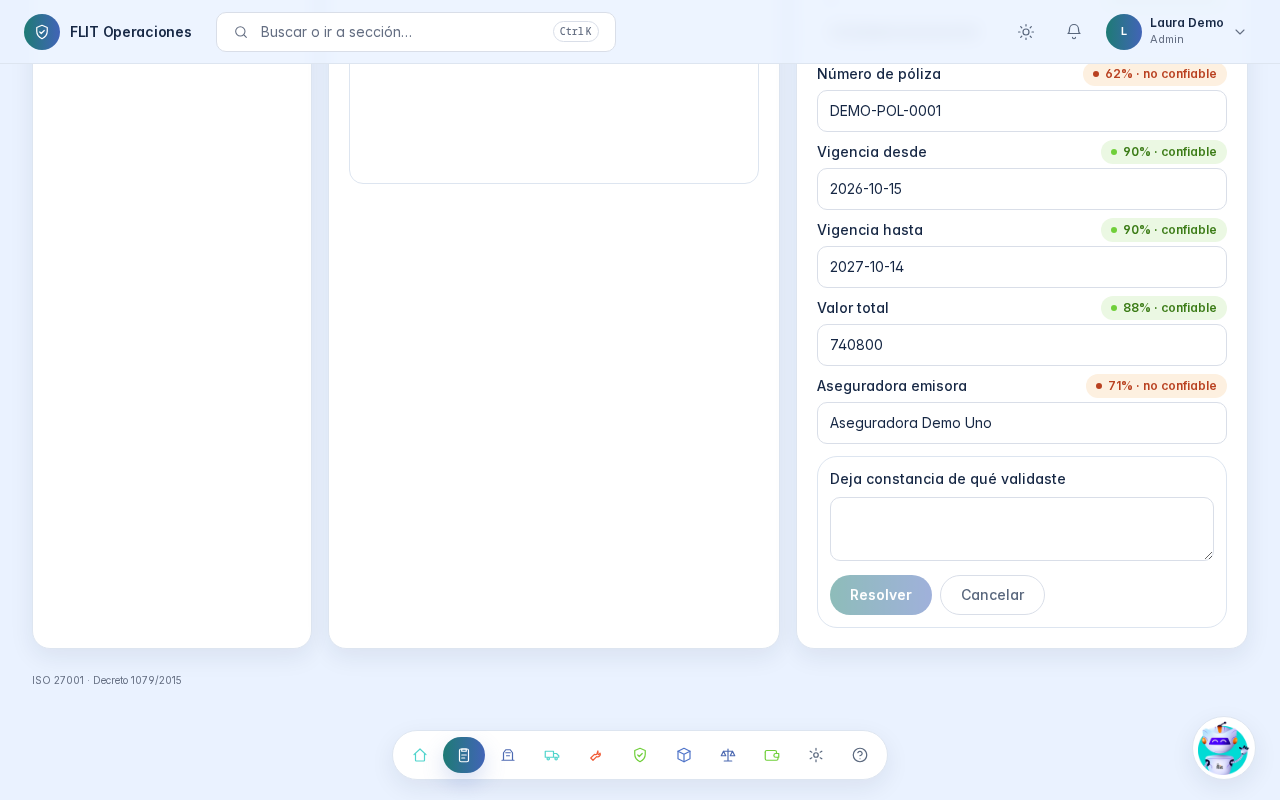
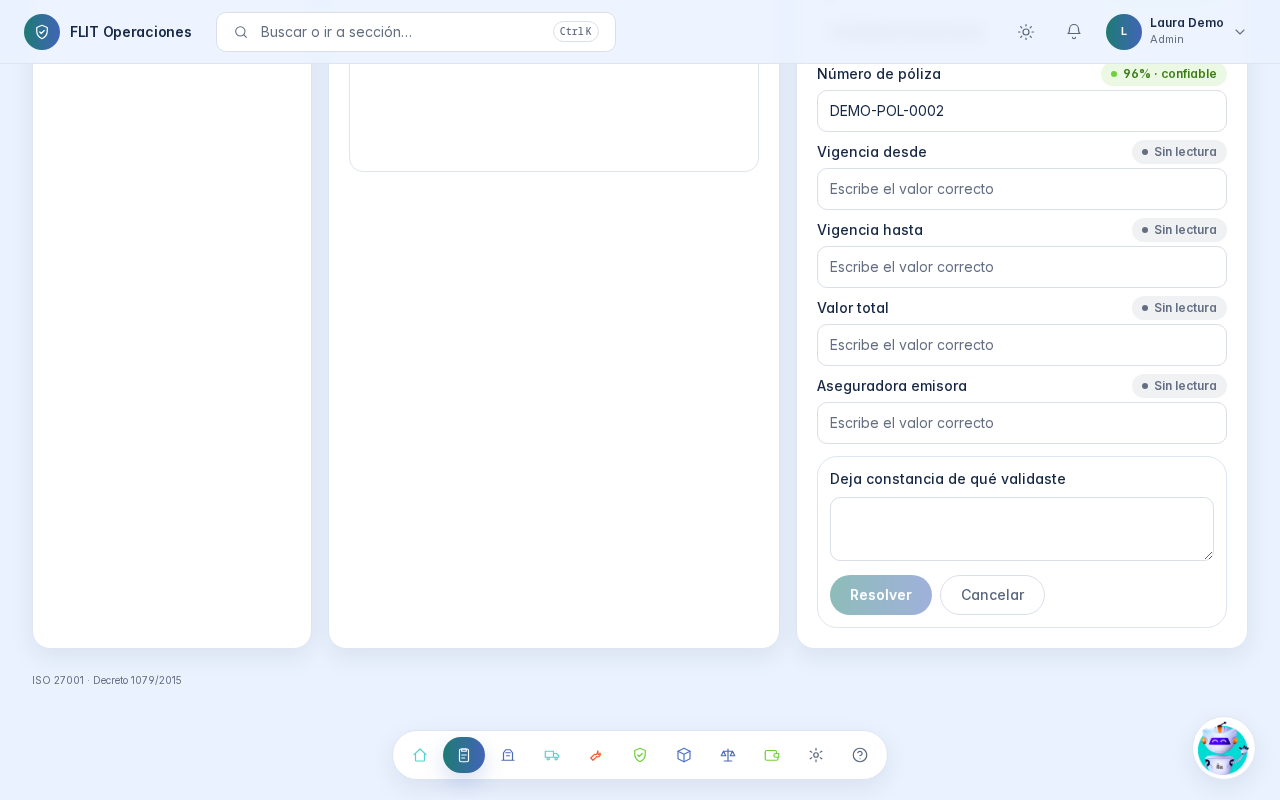
docs(ayuda): la ficha de Revisiones OCR explica Reintentar lectura y el trámite asociado del auditor, con capturas de la cola sin trámite elegido y del reintento (BUG #14569)

diff --git a/apps/api/src/modules/flito-dr-flit/ayuda/fichas-ayuda.generated.ts b/apps/api/src/modules/flito-dr-flit/ayuda/fichas-ayuda.generated.ts
@@ -319,7 +319,7 @@ export const FICHAS_AYUDA: readonly FichaAyudaApi[] = Object.freeze([
     "permiso": "flito_revisiones",
     "etiqueta": "Revisiones OCR",
     "resumen": "Cola de confirmación de campos leídos.",
-    "version": "1.3",
+    "version": "1.4",
     "fecha": "2026-11-17",
     "palabrasClave": [
       "revisiones",
@@ -330,7 +330,8 @@ export const FICHAS_AYUDA: readonly FichaAyudaApi[] = Object.freeze([
     "consultas": [
       "cómo confirmo los campos que leyó el OCR",
       "por qué un documento quedó en revisión",
-      "cómo busco el trámite de un documento en revisión"
+      "cómo busco el trámite de un documento en revisión",
+      "cómo vuelvo a leer un documento en revisión"
     ],
     "secciones": [
       {
@@ -341,7 +342,7 @@ export const FICHAS_AYUDA: readonly FichaAyudaApi[] = Object.freeze([
       {
         "ancla": "para-quien",
         "titulo": "Para quién",
-        "texto": "Administrador (confirma o descarta). Auditor (ve la cola y los soportes, pero no los resuelve: Solo lectura · Auditoría ve la cola y los soportes, pero no los resuelve.)."
+        "texto": "Administrador (confirma o descarta). Auditor (ve la cola, los soportes y el trámite asociado, pero no los resuelve ni vuelve a leer el documento: Solo lectura · Auditoría ve la cola y los soportes, pero no los resuelve.)."
       },
       {
         "ancla": "como-se-entra",
@@ -351,17 +352,17 @@ export const FICHAS_AYUDA: readonly FichaAyudaApi[] = Object.freeze([
       {
         "ancla": "pasos",
         "titulo": "Pasos",
-        "texto": "Elija el grupo: SOAT, Impuestos (incluye las facturas de venta) o Derechos de tránsito. Marque Incluir resueltas, arriba a la derecha, si necesita ver también las ya cerradas. En Cola, a la izquierda, pulse el archivo; la primera de la lista viene elegida. En el centro aparece el documento; si el visor no lo muestra, use Abrir el documento. A la derecha, el tipo de documento, el motivo por el que llegó (por ejemplo, Confianza del OCR bajo el umbral) y los campos leídos, cada uno con su confianza: confiable, no confiable o Sin lectura. Revisiones OCR con la cola de dos pólizas a la izquierda, el documento en el centro y los campos leídos con su porcentaje de confianza a la derecha En Trámite contra el que se concilia, el trámite aparece elegido cuando es el único que coincide con la placa o el VIN del documento; lo indica el aviso Elegido automáticamente, y puede pulsar Cambiar para elegir otro. Si no viene elegido, pulse el campo y escriba la placa, el VIN o el número FLIT: la lista muestra el número FLIT y la placa de cada trámite, y marca Coincide placa, Coincide VIN o Coincide placa y VIN. Si aparece Hay más trámites que coinciden, escriba más caracteres para afinar. Al elegirlo, aparece una tabla que compara Placa y VIN del trámite con lo Leído del PDF, con ✓ si cruzan y ✗ si no. Corrija en cada campo el valor que no corresponda; si corrige la placa y ya no es la del trámite elegido, un aviso se lo dice y Buscar con la placa nueva le muestra los trámites que sí coinciden. Trámite elegido automáticamente en el buscador y tabla que compara placa y VIN del trámite con lo leído del PDF, ambos con marca de coincidencia Pulse Confirmar y resolver (solo se habilita con un trámite elegido). Escriba en Deja constancia de qué validaste y pulse Resolver, o Cancelar para volver. Si el documento no corresponde a ningún trámite, pulse Descartar documento, escriba el Motivo del descarte (mín. 5 caracteres) y pulse Descartar. Recuadro Deja constancia de qué validaste con el botón Resolver y Cancelar debajo de los campos Al resolver o descartar, el documento sale de la cola. Una revisión ya cerrada (con Incluir resueltas) muestra Resuelta y sus campos no se editan. Diagrama: el documento en la cola, elegir el trámite y revisar los campos; si corresponde, Confirmar y resolver con constancia; si no, Descartar documento con motivo"
+        "texto": "Elija el grupo: SOAT, Impuestos (incluye las facturas de venta) o Derechos de tránsito. Marque Incluir resueltas, arriba a la derecha, si necesita ver también las ya cerradas. En Cola, a la izquierda, pulse el archivo; la primera de la lista viene elegida. En el centro aparece el documento; si el visor no lo muestra, use Abrir el documento. A la derecha, el tipo de documento, el motivo por el que llegó (por ejemplo, Confianza del OCR bajo el umbral) y los campos leídos, cada uno con su confianza: confiable, no confiable o Sin lectura. Revisiones OCR con la cola de dos pólizas a la izquierda, el documento en el centro y los campos leídos con su porcentaje de confianza a la derecha, con el trámite aún por elegir En Trámite contra el que se concilia, el trámite aparece elegido cuando es el único que coincide con la placa o el VIN del documento; lo indica el aviso Elegido automáticamente, y puede pulsar Cambiar para elegir otro. Si la revisión ya tenía un trámite asociado, aparece elegido desde el principio; el Auditor lo ve igual, sin poder cambiarlo, o Sin trámite asociado si no lo hay. Si no viene elegido, pulse el campo y escriba la placa, el VIN o el número FLIT: la lista muestra el número FLIT y la placa de cada trámite, y marca Coincide placa, Coincide VIN o Coincide placa y VIN. Si aparece Hay más trámites que coinciden, escriba más caracteres para afinar. Al elegirlo, aparece una tabla que compara Placa y VIN del trámite con lo Leído del PDF, con ✓ si cruzan y ✗ si no. Corrija en cada campo el valor que no corresponda; si corrige la placa y ya no es la del trámite elegido, un aviso se lo dice y Buscar con la placa nueva le muestra los trámites que sí coinciden. Trámite elegido automáticamente en el buscador y tabla que compara placa y VIN del trámite con lo leído del PDF, ambos con marca de coincidencia Si la lectura salió mal (campos vacíos o con confianza baja), pulse Reintentar lectura, junto a Confirmar y resolver, para que el sistema vuelva a leer el documento guardado. No resuelve la revisión: usted sigue teniendo que revisar y confirmar. Mientras lee, el botón dice Leyendo de nuevo… y los campos no se editan. Si ya corrigió algún campo, antes le avisa Se reemplazarán los campos que corregiste con la nueva lectura.: pulse Reintentar de todos modos o Cancelar para conservar sus correcciones. Al terminar, aparece Lectura actualizada con el número de campos leídos, los campos traen los valores y la confianza nuevos, y el trámite se vuelve a buscar con la placa o el VIN leídos (sin cambiar el que usted ya eligió). Si la nueva lectura no obtiene ningún campo, la revisión queda como estaba. Hay un límite de intentos seguidos: si lo alcanza, espere unos minutos. Botón Reintentar lectura junto a Confirmar y resolver, con el aviso Lectura actualizada debajo Pulse Confirmar y resolver (solo se habilita con un trámite elegido). Escriba en Deja constancia de qué validaste y pulse Resolver, o Cancelar para volver. Si el documento no corresponde a ningún trámite, pulse Descartar documento, escriba el Motivo del descarte (mín. 5 caracteres) y pulse Descartar. Recuadro Deja constancia de qué validaste con el botón Resolver y Cancelar debajo de los campos Al resolver o descartar, el documento sale de la cola. Una revisión ya cerrada (con Incluir resueltas) muestra Resuelta y sus campos no se editan. Diagrama: el documento en la cola, elegir el trámite y revisar los campos; si corresponde, Confirmar y resolver con constancia; si no, Descartar documento con motivo"
       },
       {
         "ancla": "estados",
         "titulo": "Estados",
-        "texto": "Cargando: Cargando documento… en el visor mientras llega el archivo. Error: el recuadro de constancia o de descarte muestra el mensaje si falla la confirmación o el descarte. Si la búsqueda de trámites falla, el campo muestra No pudimos buscar los trámites. con Reintentar. Vacío: No hay nada en revisión. Cuando una extracción no supere el umbral o su llave no cruce, el documento aparecerá aquí. El mismo mensaje se ve si la cola no se pudo consultar. Lleno: cola a la izquierda, documento al centro y campos a la derecha (en pantallas pequeñas, uno debajo del otro)."
+        "texto": "Cargando: Cargando documento… en el visor mientras llega el archivo. Error: el recuadro de constancia o de descarte muestra el mensaje si falla la confirmación o el descarte. Si la búsqueda de trámites falla, el campo muestra No pudimos buscar los trámites. con Reintentar. Si Reintentar lectura falla, un aviso lo explica: El lector de documentos no está disponible en este momento. La revisión no cambió; intenta de nuevo en unos minutos., No se pudo abrir el documento guardado de esta revisión. Intenta de nuevo en unos minutos., Demasiados reintentos de lectura seguidos. Espera unos minutos e intenta de nuevo., La revisión ya está resuelta o, si no hay conexión, No pudimos reintentar la lectura. Intenta de nuevo. También puede ver El documento se volvió a leer, pero no se obtuvo ningún campo. La revisión no cambió. Vacío: No hay nada en revisión. Cuando una extracción no supere el umbral o su llave no cruce, el documento aparecerá aquí. El mismo mensaje se ve si la cola no se pudo consultar. Lleno: cola a la izquierda, documento al centro y campos a la derecha (en pantallas pequeñas, uno debajo del otro)."
       },
       {
         "ancla": "que-no-hace",
         "titulo": "Qué no hace",
-        "texto": "No sustituye la carga masiva: los archivos entran desde SOAT, Impuestos o Derechos. No envía el SOAT al Proveedor ni el impuesto al gestor. No Factura ni hace emisión electrónica. El Auditor no confirma ni descarta."
+        "texto": "No sustituye la carga masiva: los archivos entran desde SOAT, Impuestos o Derechos. No envía el SOAT al Proveedor ni el impuesto al gestor. No Factura ni hace emisión electrónica. El Auditor no confirma, no descarta ni vuelve a leer el documento. Reintentar lectura no resuelve la revisión por sí solo."
       }
     ]
   },

diff --git a/apps/web/e2e/tests/ayuda-capturas.capturas.spec.ts b/apps/web/e2e/tests/ayuda-capturas.capturas.spec.ts
@@ -1236,6 +1236,19 @@ test.describe('Ayuda FLITO — capturas con datos demo @capturas', () => {
 
   test('flito_revisiones @capturas', async ({ page }) => {
     const dir = prepararCarpeta('flito_revisiones');
+    // BUG #14569: la primera póliza tiene DOS trámites con su placa (no se elige solo) y la segunda uno
+    // solo (se elige automáticamente): así 01 y 02 muestran pasos distintos.
+    const [rev1, rev2] = REVISIONES_DEMO;
+    const candidatos = [
+      ...REVISION_CANDIDATOS_SOAT,
+      { ...REVISION_CANDIDATOS_SOAT[0], id: 'soat-demo-3', idFlit: 'FLIT-DEMO-3', vin: rev2.extraccion.vin.valor.replace(/.$/, '0'),
+        etiqueta: `FLIT-DEMO-3 · ${rev1.placaSugerida}`, detalle: 'Chevrolet Onix' },
+      { ...REVISION_CANDIDATOS_SOAT[1], id: 'soat-demo-4', idFlit: 'FLIT-DEMO-4', placa: rev2.placaSugerida, vin: rev2.extraccion.vin.valor,
+        etiqueta: `FLIT-DEMO-4 · ${rev2.placaSugerida}`, detalle: 'Mazda 2' },
+    ];
+    // Punto 9: «Reintentar lectura» devuelve la segunda póliza con la confianza nueva.
+    const releida = { ...rev2, extraccion: Object.fromEntries(Object.entries(rev2.extraccion as Record<string, { valor: string }>)
+      .map(([k, c]) => [k, { valor: c.valor, confianza: 0.96, confiable: true }])) };
     const api = await interceptarApiDemo(page, [
       [/\/api\/flito\/revisiones$/, (route) => ({
         body: new URL(route.request().url()).searchParams.get('modulo') === 'soat' ? REVISIONES_DEMO : [],
@@ -1244,11 +1257,14 @@ test.describe('Ayuda FLITO — capturas con datos demo @capturas', () => {
       // BUG #14569: el buscador recibe placa/VIN en el body y devuelve las coincidencias exactas.
       [/\/api\/flito\/revisiones\/[^/]+\/candidatos\/buscar$/, (route) => {
         const b = (route.request().postDataJSON() ?? {}) as { placa?: string; vin?: string };
-        const items = REVISION_CANDIDATOS_SOAT
+        const items = candidatos
           .map((c) => ({ ...c, coincide: { placa: !!b.placa && c.placa === b.placa, vin: !!b.vin && c.vin === b.vin } }))
           .filter((c) => c.coincide.placa || c.coincide.vin);
         return { body: { items, total: items.length, truncado: false, registroActual: null } };
       }],
+      [/\/api\/flito\/revisiones\/[^/]+\/reintentar-lectura$/, () => ({
+        body: { revision: releida, sinLectura: false, camposLeidos: Object.keys(releida.extraccion).length },
+      })],
       [/\/api\/flito\/revisiones\/soporte\/[^/]+\/archivo$/, () => ({ body: PDF_DEMO, contentType: 'application/pdf' })],
     ]);
     await entrarComoAdminDemo(page);
@@ -1256,24 +1272,36 @@ test.describe('Ayuda FLITO — capturas con datos demo @capturas', () => {
     await page.goto('/flito/revisiones');
     await expect(page.getByText(`poliza-${DATOS_DEMO.placas[0]}.pdf`).first()).toBeVisible();
     await expect(page.getByText('Número de póliza')).toBeVisible();
+    // Dos trámites con la placa leída: el campo queda por elegir.
+    await expect(page.getByLabel('Trámite contra el que se concilia *')).toHaveText('Selecciona el trámite…');
+    await page.waitForTimeout(500);
+    await expect(page.getByLabel('Trámite contra el que se concilia *')).toHaveText('Selecciona el trámite…');
 
     // Pasos 1 y 2 — Grupo, cola y documento.
+    await sinFoco(page);
     await capturar(page, dir, '01-cola-y-documento');
 
-    // Paso 3 — Elegir el trámite y revisar los campos.
-    // BUG #14569: con un único trámite que coincide con la placa leída, viene elegido solo.
+    // Paso 3 — Elegir el trámite y revisar los campos (segunda póliza: un único trámite, elegido solo).
+    await page.getByRole('button', { name: new RegExp(`poliza-${DATOS_DEMO.placas[1]}\\.pdf`) }).click();
     await expect(page.getByText(/Elegido automáticamente/)).toBeVisible();
     await expect(page.getByText('Leído del PDF')).toBeVisible();
     await sinFoco(page);
     await capturar(page, dir, '02-revisar-campos');
 
-    // Paso 4 — Confirmar y resolver deja constancia.
+    // Paso 4 — Reintentar lectura: vuelve a leer el documento sin resolver la revisión.
+    await page.getByRole('button', { name: 'Reintentar lectura' }).click();
+    await expect(page.getByText(/Lectura actualizada/)).toBeVisible();
+    await page.getByText(/Lectura actualizada/).evaluate((el) => el.scrollIntoView({ block: 'center' }));
+    await sinFoco(page);
+    await capturar(page, dir, '04-reintentar-lectura');
+
+    // Paso 5 — Confirmar y resolver deja constancia.
     await page.getByRole('button', { name: 'Confirmar y resolver' }).click();
     await page.getByText('Deja constancia de qué validaste').evaluate((el) => el.scrollIntoView({ block: 'center' }));
     await sinFoco(page);
     await capturar(page, dir, '03-constancia');
 
-    comprobarCierre(api, dir, ['01-cola-y-documento.png', '02-revisar-campos.png', '03-constancia.png']);
+    comprobarCierre(api, dir, ['01-cola-y-documento.png', '02-revisar-campos.png', '03-constancia.png', '04-reintentar-lectura.png']);
   });
 
   test('clients @capturas', async ({ page }) => {

diff --git a/apps/web/e2e/tests/flito-ayuda-artefactos.spec.ts b/apps/web/e2e/tests/flito-ayuda-artefactos.spec.ts
@@ -303,8 +303,9 @@ test.describe('FLITO — Ayuda · artefactos AC6/AC7', () => {
     // Bug #14532: Liquidación y Pagado en la ventana del ZIP (04-documentos-del-zip regenerada).
     flito_tramites: { version: '1.4', fecha: '2026-11-11', diagrama: 'camino-a-entregar.svg', capturas: [
       '01-sincronizacion.png', '02-filtros-y-tabla.png', '03-seleccion.png', '04-documentos-del-zip.png'] },
-    flito_revisiones: { version: '1.2', diagrama: 'resolver-o-descartar.svg', capturas: [
-      '01-cola-y-documento.png', '02-revisar-campos.png', '03-constancia.png'] },
+    // BUG #14569: buscador de trámite (1.3) y Reintentar lectura (1.4, 04-reintentar-lectura nueva).
+    flito_revisiones: { version: '1.4', fecha: '2026-11-17', diagrama: 'resolver-o-descartar.svg', capturas: [
+      '01-cola-y-documento.png', '02-revisar-campos.png', '04-reintentar-lectura.png', '03-constancia.png'] },
     flito_bitacora: { version: '1.2', diagrama: null, capturas: ['01-movimientos.png'] },
     flito_comparendos: { version: '1.2', diagrama: 'ciclo-monitoreo.svg', capturas: [
       '01-registros.png', '02-detalle.png', '03-sincronizacion.png', '04-configuracion.png'] },

diff --git a/apps/web/e2e/helpers/datos-demo.ts b/apps/web/e2e/helpers/datos-demo.ts
@@ -756,12 +756,14 @@ export const REVISIONES_DEMO = [
       aseguradora: campo(ASEGURADORAS_DEMO[0], 0.71),
     },
     resuelto: false, creadoEn: '2026-10-21T13:20:00Z', soporte: { id: 'sop-demo-1', nombreArchivo: `poliza-${P[0]}.pdf` },
+    registroActual: null,
   },
   {
     id: 'rev-demo-2', modulo: 'soat', motivo: 'llave_no_cruza',
     detalle: 'La placa leída no corresponde a ningún SOAT de la cola.', registroId: null, placaSugerida: P[1],
     extraccion: { placa: campo(P[1], 0.95), vin: campo(V[1], 0.9), numeroPoliza: campo('DEMO-POL-0002', 0.91) },
     resuelto: false, creadoEn: '2026-10-21T11:05:00Z', soporte: { id: 'sop-demo-2', nombreArchivo: `poliza-${P[1]}.pdf` },
+    registroActual: null,
   },
 ];
 export const REVISION_CAMPOS_SOAT = ['placa', 'vin', 'numeroPoliza', 'vigenciaDesde', 'vigenciaHasta', 'valorTotal', 'aseguradora'];

diff --git a/apps/web/src/content/ayuda/flito_revisiones.md b/apps/web/src/content/ayuda/flito_revisiones.md
@@ -9,7 +9,8 @@ consultas:
   - cómo confirmo los campos que leyó el OCR
   - por qué un documento quedó en revisión
   - cómo busco el trámite de un documento en revisión
-version: 1.3
+  - cómo vuelvo a leer un documento en revisión
+version: 1.4
 fecha: 2026-11-17
 ---
 ## Qué es
@@ -18,7 +19,7 @@ Cola de confirmación humana: todo documento leído por OCR que no superó la co
 
 ## Para quién
 
-Administrador (confirma o descarta). Auditor (ve la cola y los soportes, pero no los resuelve: **Solo lectura · Auditoría ve la cola y los soportes, pero no los resuelve.**).
+Administrador (confirma o descarta). Auditor (ve la cola, los soportes y el trámite asociado, pero no los resuelve ni vuelve a leer el documento: **Solo lectura · Auditoría ve la cola y los soportes, pero no los resuelve.**).
 
 ## Cómo se entra
 
@@ -27,17 +28,18 @@ En la barra de navegación al pie de la pantalla, pulse **Gestión** y, en el pa
 ## Pasos
 
 1. Elija el grupo: **SOAT**, **Impuestos** (incluye las facturas de venta) o **Derechos de tránsito**. Marque **Incluir resueltas**, arriba a la derecha, si necesita ver también las ya cerradas.
-2. En **Cola**, a la izquierda, pulse el archivo; la primera de la lista viene elegida. En el centro aparece el documento; si el visor no lo muestra, use **Abrir el documento**. A la derecha, el tipo de documento, el motivo por el que llegó (por ejemplo, **Confianza del OCR bajo el umbral**) y los campos leídos, cada uno con su confianza: **confiable**, **no confiable** o **Sin lectura**. ![Revisiones OCR con la cola de dos pólizas a la izquierda, el documento en el centro y los campos leídos con su porcentaje de confianza a la derecha](./flito_revisiones/01-cola-y-documento.png)
-3. En **Trámite contra el que se concilia**, el trámite aparece elegido cuando es el único que coincide con la placa o el VIN del documento; lo indica el aviso **Elegido automáticamente**, y puede pulsar **Cambiar** para elegir otro. Si no viene elegido, pulse el campo y escriba la placa, el VIN o el número FLIT: la lista muestra el número FLIT y la placa de cada trámite, y marca **Coincide placa**, **Coincide VIN** o **Coincide placa y VIN**. Si aparece **Hay más trámites que coinciden**, escriba más caracteres para afinar. Al elegirlo, aparece una tabla que compara **Placa** y **VIN** del trámite con lo **Leído del PDF**, con ✓ si cruzan y ✗ si no. Corrija en cada campo el valor que no corresponda; si corrige la placa y ya no es la del trámite elegido, un aviso se lo dice y **Buscar con** la placa nueva le muestra los trámites que sí coinciden. ![Trámite elegido automáticamente en el buscador y tabla que compara placa y VIN del trámite con lo leído del PDF, ambos con marca de coincidencia](./flito_revisiones/02-revisar-campos.png)
-4. Pulse **Confirmar y resolver** (solo se habilita con un trámite elegido). Escriba en **Deja constancia de qué validaste** y pulse **Resolver**, o **Cancelar** para volver. Si el documento no corresponde a ningún trámite, pulse **Descartar documento**, escriba el **Motivo del descarte (mín. 5 caracteres)** y pulse **Descartar**. ![Recuadro Deja constancia de qué validaste con el botón Resolver y Cancelar debajo de los campos](./flito_revisiones/03-constancia.png)
-5. Al resolver o descartar, el documento sale de la cola. Una revisión ya cerrada (con **Incluir resueltas**) muestra **Resuelta** y sus campos no se editan.
+2. En **Cola**, a la izquierda, pulse el archivo; la primera de la lista viene elegida. En el centro aparece el documento; si el visor no lo muestra, use **Abrir el documento**. A la derecha, el tipo de documento, el motivo por el que llegó (por ejemplo, **Confianza del OCR bajo el umbral**) y los campos leídos, cada uno con su confianza: **confiable**, **no confiable** o **Sin lectura**. ![Revisiones OCR con la cola de dos pólizas a la izquierda, el documento en el centro y los campos leídos con su porcentaje de confianza a la derecha, con el trámite aún por elegir](./flito_revisiones/01-cola-y-documento.png)
+3. En **Trámite contra el que se concilia**, el trámite aparece elegido cuando es el único que coincide con la placa o el VIN del documento; lo indica el aviso **Elegido automáticamente**, y puede pulsar **Cambiar** para elegir otro. Si la revisión ya tenía un trámite asociado, aparece elegido desde el principio; el Auditor lo ve igual, sin poder cambiarlo, o **Sin trámite asociado** si no lo hay. Si no viene elegido, pulse el campo y escriba la placa, el VIN o el número FLIT: la lista muestra el número FLIT y la placa de cada trámite, y marca **Coincide placa**, **Coincide VIN** o **Coincide placa y VIN**. Si aparece **Hay más trámites que coinciden**, escriba más caracteres para afinar. Al elegirlo, aparece una tabla que compara **Placa** y **VIN** del trámite con lo **Leído del PDF**, con ✓ si cruzan y ✗ si no. Corrija en cada campo el valor que no corresponda; si corrige la placa y ya no es la del trámite elegido, un aviso se lo dice y **Buscar con** la placa nueva le muestra los trámites que sí coinciden. ![Trámite elegido automáticamente en el buscador y tabla que compara placa y VIN del trámite con lo leído del PDF, ambos con marca de coincidencia](./flito_revisiones/02-revisar-campos.png)
+4. Si la lectura salió mal (campos vacíos o con confianza baja), pulse **Reintentar lectura**, junto a **Confirmar y resolver**, para que el sistema vuelva a leer el documento guardado. No resuelve la revisión: usted sigue teniendo que revisar y confirmar. Mientras lee, el botón dice **Leyendo de nuevo…** y los campos no se editan. Si ya corrigió algún campo, antes le avisa **Se reemplazarán los campos que corregiste con la nueva lectura.**: pulse **Reintentar de todos modos** o **Cancelar** para conservar sus correcciones. Al terminar, aparece **Lectura actualizada** con el número de campos leídos, los campos traen los valores y la confianza nuevos, y el trámite se vuelve a buscar con la placa o el VIN leídos (sin cambiar el que usted ya eligió). Si la nueva lectura no obtiene ningún campo, la revisión queda como estaba. Hay un límite de intentos seguidos: si lo alcanza, espere unos minutos. ![Botón Reintentar lectura junto a Confirmar y resolver, con el aviso Lectura actualizada debajo](./flito_revisiones/04-reintentar-lectura.png)
+5. Pulse **Confirmar y resolver** (solo se habilita con un trámite elegido). Escriba en **Deja constancia de qué validaste** y pulse **Resolver**, o **Cancelar** para volver. Si el documento no corresponde a ningún trámite, pulse **Descartar documento**, escriba el **Motivo del descarte (mín. 5 caracteres)** y pulse **Descartar**. ![Recuadro Deja constancia de qué validaste con el botón Resolver y Cancelar debajo de los campos](./flito_revisiones/03-constancia.png)
+6. Al resolver o descartar, el documento sale de la cola. Una revisión ya cerrada (con **Incluir resueltas**) muestra **Resuelta** y sus campos no se editan.
 
 ![Diagrama: el documento en la cola, elegir el trámite y revisar los campos; si corresponde, Confirmar y resolver con constancia; si no, Descartar documento con motivo](./flito_revisiones/resolver-o-descartar.svg)
 
 ## Estados
 
 - Cargando: **Cargando documento…** en el visor mientras llega el archivo.
-- Error: el recuadro de constancia o de descarte muestra el mensaje si falla la confirmación o el descarte. Si la búsqueda de trámites falla, el campo muestra **No pudimos buscar los trámites.** con **Reintentar**.
+- Error: el recuadro de constancia o de descarte muestra el mensaje si falla la confirmación o el descarte. Si la búsqueda de trámites falla, el campo muestra **No pudimos buscar los trámites.** con **Reintentar**. Si **Reintentar lectura** falla, un aviso lo explica: **El lector de documentos no está disponible en este momento. La revisión no cambió; intenta de nuevo en unos minutos.**, **No se pudo abrir el documento guardado de esta revisión. Intenta de nuevo en unos minutos.**, **Demasiados reintentos de lectura seguidos. Espera unos minutos e intenta de nuevo.**, **La revisión ya está resuelta** o, si no hay conexión, **No pudimos reintentar la lectura. Intenta de nuevo.** También puede ver **El documento se volvió a leer, pero no se obtuvo ningún campo. La revisión no cambió.**
 - Vacío: **No hay nada en revisión. Cuando una extracción no supere el umbral o su llave no cruce, el documento aparecerá aquí.** El mismo mensaje se ve si la cola no se pudo consultar.
 - Lleno: cola a la izquierda, documento al centro y campos a la derecha (en pantallas pequeñas, uno debajo del otro).
 
@@ -46,4 +48,5 @@ En la barra de navegación al pie de la pantalla, pulse **Gestión** y, en el pa
 - No sustituye la carga masiva: los archivos entran desde **SOAT**, **Impuestos** o **Derechos**.
 - No envía el SOAT al Proveedor ni el impuesto al gestor.
 - No **Factura** ni hace **emisión electrónica**.
-- El Auditor no confirma ni descarta.
+- El Auditor no confirma, no descarta ni vuelve a leer el documento.
+- **Reintentar lectura** no resuelve la revisión por sí solo.
